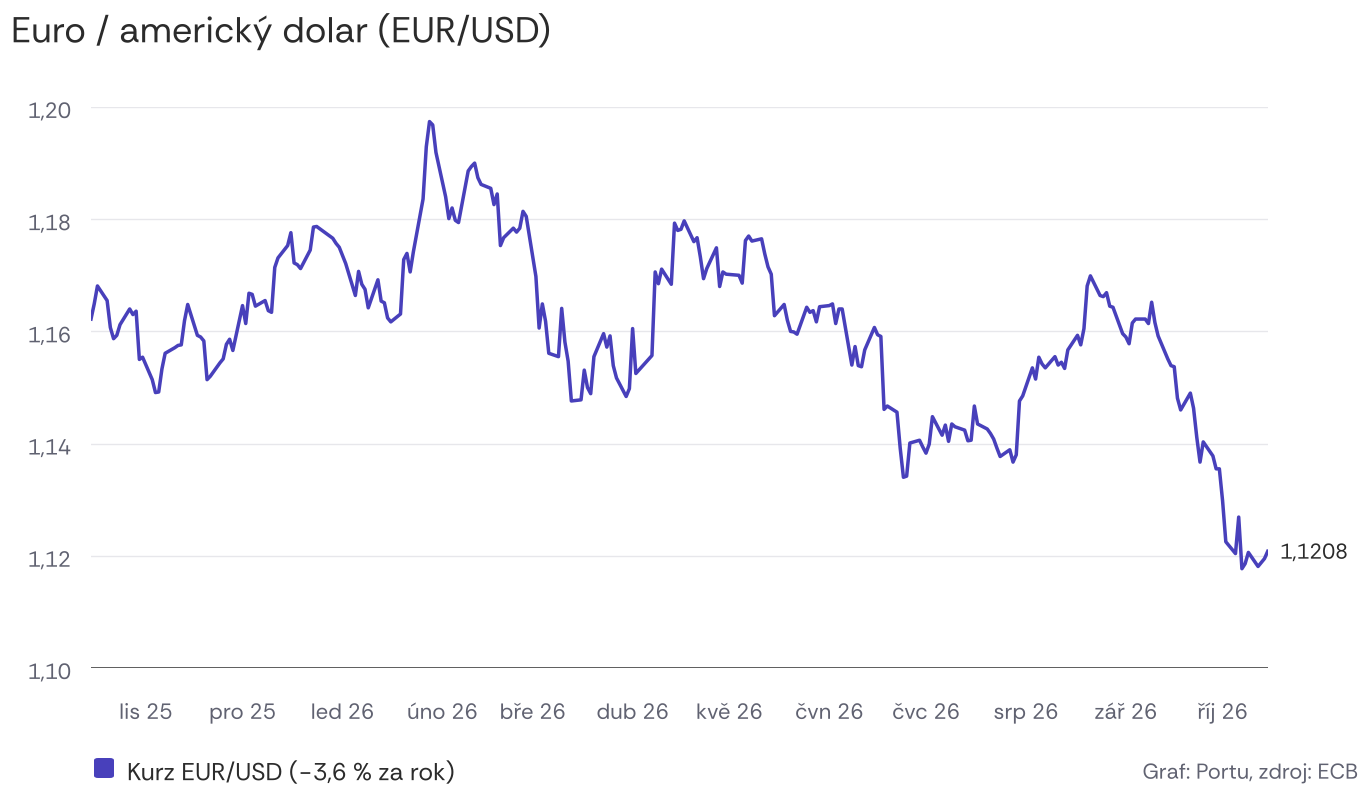
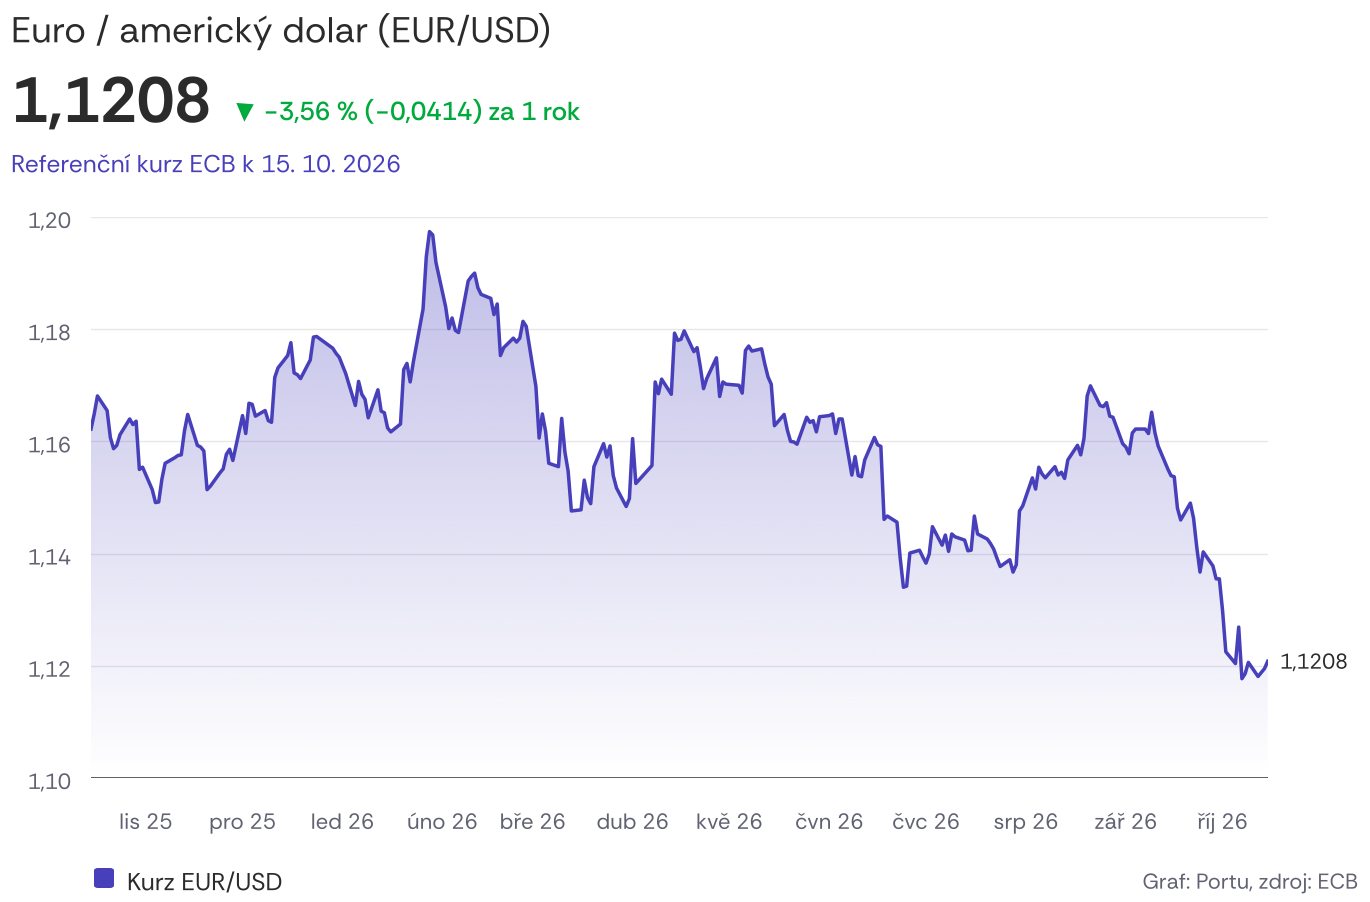
Graf EUR/USD: hlavička s kurzem a změnou za rok, barevný přechod pod křivkou
portu_grafy: volitelná hlavička s velkým číslem (hlavicka=…) a přechod
pod čarou (vypln=True); trojúhelník ▼/▲ kreslený jako tvar, protože
ho Rethink Sans nemá. Dřívější grafy beze změny.

Claude-Session: https://claude.ai/code/session_01A8r6cxYv4z3RaLJthvcQAS

diff --git a/nastroje/portu_grafy.py b/nastroje/portu_grafy.py
@@ -71,6 +71,8 @@ _ADRESAR = os.path.dirname(os.path.abspath(__file__))
 _PISMO = os.path.join(_ADRESAR, "fonty", "RethinkSans.ttf")
 font_manager.fontManager.addfont(_PISMO)
 _RODINA = font_manager.FontProperties(fname=_PISMO).get_name()
+_TUCNE = font_manager.FontProperties(fname=os.path.join(_ADRESAR, "fonty", "RethinkSans-Bold.ttf"))
+_STREDNI = font_manager.FontProperties(fname=os.path.join(_ADRESAR, "fonty", "RethinkSans-Medium.ttf"))
 plt.rcParams.update({
     "font.family": _RODINA,
     "axes.unicode_minus": True,
@@ -106,10 +108,11 @@ def _fy(px_shora: float) -> float:
     return 1 - px_shora / VYSKA_PX
 
 
-def _platno(dolni_px: float, horni_px: float = GRAF_HORNI, nadpis: str | None = None):
-    vyska = VYSKA_PX + (70 if nadpis else 0)
+def _platno(dolni_px: float, horni_px: float = GRAF_HORNI, nadpis: str | None = None, navic: int = 0):
+    """navic = další výška hlavičky pod nadpisem (např. pro velké číslo, viz _hlavicka_cislo)."""
+    posun = (70 if nadpis else 0) + navic
+    vyska = VYSKA_PX + posun
     fig = plt.figure(figsize=(SIRKA_PX / DPI, vyska / DPI), dpi=DPI, facecolor=POZADI)
-    posun = 70 if nadpis else 0
 
     def fy(px):
         return 1 - (px + posun) / vyska
@@ -123,9 +126,47 @@ def _platno(dolni_px: float, horni_px: float = GRAF_HORNI, nadpis: str | None = 
     ax.set_axisbelow(True)
     fig._portu = {"fy": fy, "vyska": vyska}
     if nadpis:
-        fig.text(_fx(GRAF_LEVA - 80), fy(-40), nadpis, fontsize=PISMO_NADPIS, color=TEXT_TMAVY,
+        fig.text(_fx(GRAF_LEVA - 80), 1 - 30 / vyska, nadpis, fontsize=PISMO_NADPIS, color=TEXT_TMAVY,
                  ha="left", va="center")
     return fig, ax
+
+
+HLAVICKA_PX = 110  # výška hlavičky s velkým číslem
+
+
+def _hlavicka_cislo(fig, hodnota, zmena, popis, barva_zmeny=None):
+    """Velké číslo s poslední hodnotou, vedle změna (např. „▼ −3,56 % (−0,0414) za 1 rok“), pod tím popis."""
+    vyska = fig._portu["vyska"]
+    x = _fx(GRAF_LEVA - 80)
+    t = fig.text(x, 1 - 122 / vyska, hodnota, fontsize=64 / PT, color=TEXT_TMAVY, fontproperties=_TUCNE,
+                 ha="left", va="baseline")
+    sirka = t.get_window_extent(renderer=fig.canvas.get_renderer()).width
+    barva = barva_zmeny or ZELENA
+    x_zmena = x + _fx(sirka + 24)
+    if zmena[:1] in ("▼", "▲"):  # Rethink Sans šipky nemá – trojúhelník jako tvar
+        fig.add_artist(Line2D([x_zmena + _fx(9)], [1 - 111 / vyska], transform=fig.transFigure, linestyle="none",
+                              marker="v" if zmena[0] == "▼" else "^", markersize=13 / PT, color=barva))
+        zmena, x_zmena = zmena[1:].lstrip(), x_zmena + _fx(28)
+    fig.text(x_zmena, 1 - 120 / vyska, zmena, fontsize=26 / PT, color=barva,
+             fontproperties=_STREDNI, ha="left", va="baseline")
+    fig.text(x, 1 - 160 / vyska, popis, fontsize=PISMO_LEGENDA, color=FIALOVA, ha="left", va="center_baseline")
+
+
+def _vypln(ax, xs, hodnoty, barva, dolni):
+    """Barevný přechod pod čarou: u čáry 35 % krytí, dole do bílé."""
+    import numpy as np
+    from matplotlib.colors import to_rgb
+    from matplotlib.patches import Polygon
+    xn = mdates.date2num(xs)
+    body = [(xn[0], dolni)] + list(zip(xn, hodnoty)) + [(xn[-1], dolni)]
+    tvar = Polygon(body, closed=True, facecolor="none", edgecolor="none")
+    ax.add_patch(tvar)
+    r, g, b = to_rgb(barva)
+    prechod = np.zeros((256, 1, 4))
+    prechod[:, 0, 0], prechod[:, 0, 1], prechod[:, 0, 2] = r, g, b
+    prechod[:, 0, 3] = np.linspace(0.35, 0.0, 256)
+    obr = ax.imshow(prechod, aspect="auto", extent=[xn[0], xn[-1], dolni, max(hodnoty)], origin="upper", zorder=1)
+    obr.set_clip_path(tvar)
 
 
 def _osa_y(ax, osa_y, jednotka, mista_osa):
@@ -267,7 +308,7 @@ def vodorovny(kategorie, hodnoty, osa_x, jednotka="%", mista=1, mista_osa=0, zdr
 def spojnicovy(x, rady: dict, osa_y, jednotka="", mista_osa=0, zdroj=ZDROJ, barvy=None,
                format_x="%m/%Y", interval_mesicu=6, interval_let=1, anotace=None, nadpis=None,
                rozsah_x=None, schody=(), popisky_konec=False, mista_konec=None, jednotka_konec=None,
-               jazyk="cs"):
+               jazyk="cs", hlavicka=None, vypln=False):
     """Časové řady (styl „Ropa WTI a Brent“, „Forward P/E“).
 
     x            – seznam datumů (datetime/date) společný všem řadám
@@ -277,6 +318,8 @@ def spojnicovy(x, rady: dict, osa_y, jednotka="", mista_osa=0, zdroj=ZDROJ, barv
     format_x     – '%m/%Y' (12/2024) pro víceleté řady po půlroce, '%Y' pro roky, '%-d. %-m.' pro dny,
                    'mesic' pro zkratky měsíců („lis 25“, slovensky „nov 25“) u řad za poslední rok (interval_mesicu=1)
     jazyk        – 'cs' nebo 'sk' (zkratky měsíců na ose x)
+    hlavicka     – (velké číslo, změna, popis[, barva změny]) pod nadpisem, např. kurz a změna za rok
+    vypln        – barevný přechod pod čarou první řady (jen na výslovné přání, Portu ho jinak nepoužívá)
     interval_let – u format_x='%Y' popisek každý n-tý rok (u řad přes 10 let 2)
     anotace      – [(datum, hodnota, 'text', 'pod'|'nad'), …] – bod na čáře + svislá linka + popisek
     schody       – názvy řad kreslených schodovitě (sazby centrálních bank platné do další změny)
@@ -286,13 +329,17 @@ def spojnicovy(x, rady: dict, osa_y, jednotka="", mista_osa=0, zdroj=ZDROJ, barv
     jednotka_konec – jednotka koncového popisku, když se liší od osy (např. 'b.' u indexu – mezeru před ní doplní cislo())
     """
     barvy = barvy or BARVY
-    fig, ax = _platno(GRAF_DOLNI_1RADEK, nadpis=nadpis)
+    fig, ax = _platno(GRAF_DOLNI_1RADEK, nadpis=nadpis, navic=HLAVICKA_PX if hlavicka else 0)
+    if hlavicka:
+        _hlavicka_cislo(fig, *hlavicka)
     _osa_y(ax, osa_y, jednotka, mista_osa)
     konce = []
     for i, (nazev, data) in enumerate(rady.items()):
         xs, hodnoty = data if isinstance(data, tuple) else (x, data)
         ax.plot(xs, hodnoty, color=barvy[i], linewidth=3.5 / PT, solid_joinstyle="round",
                 drawstyle="steps-post" if nazev in schody else "default", zorder=3 + len(rady) - i)
+        if vypln and i == 0:
+            _vypln(ax, xs, hodnoty, barvy[i], osa_y[0])
         if popisky_konec:
             konce.append([h for h in hodnoty if h is not None][-1])
     if konce:

diff --git a/vystupy/grafy/2026-10-16-eurusd.py b/vystupy/grafy/2026-10-16-eurusd.py
@@ -17,13 +17,19 @@ with open(ZAKLAD + ".csv", encoding="utf-8") as f:
     for r in csv.DictReader(f):
         datumy.append(dt.date.fromisoformat(r["datum"]))
         kurz.append(float(r["eurusd_ecb"]))
-zmena = (kurz[-1] / kurz[0] - 1) * 100
+zmena_pct = (kurz[-1] / kurz[0] - 1) * 100
+zmena = kurz[-1] - kurz[0]
+sipka = "▼" if zmena < 0 else "▲"
+den = datumy[-1]
 
 fig = pg.spojnicovy(
-    datumy, {f"Kurz EUR/USD ({pg.cislo(zmena, 1, '%')} za rok)": kurz},
+    datumy, {"Kurz EUR/USD": kurz},
     osa_y=(1.10, 1.20, 0.02), jednotka="", mista_osa=2,
     format_x="mesic", interval_mesicu=1, rozsah_x=(datumy[0], datumy[-1]),
-    popisky_konec=True, mista_konec=4,
+    popisky_konec=True, mista_konec=4, vypln=True,
+    hlavicka=(pg.cislo(kurz[-1], 4),
+              f"{sipka} {pg.cislo(zmena_pct, 2, '%')} ({pg.cislo(zmena, 4)}) za 1 rok",
+              f"Referenční kurz ECB k {den.day}. {den.month}. {den.year}"),
     zdroj="Graf: Portu, zdroj: ECB",
     nadpis="Euro / americký dolar (EUR/USD)",
 )

diff --git a/.claude/agents/Portu grafy.md b/.claude/agents/Portu grafy.md
@@ -54,6 +54,8 @@ Všechno níže je zabudované v modulu `nastroje/portu_grafy.py`. Graf vždy kr
 - Osa y s kulatými hodnotami a pravidelným krokem. Když řada klesá pod nulu, tmavá je čára nuly, ne spodní okraj.
 - **Poslední hodnota vpravo za koncem čáry** (`popisky_konec=True`), u více řad v barvě řady a s automatickým odsunutím blízkých hodnot („3,8 %" nad „3,4 %").
 - Sazby centrálních bank schodovitě podle data změny (`schody=('název řady',)`), ne šikmou čarou mezi měsíci.
+- **Hlavička s velkým číslem** (kurzy, ceny, indexy): pod nadpisem poslední hodnota velkým tučným písmem, vedle změna za období v zelené Portu (`▼ −3,56 % (−0,0414) za 1 rok`) a pod tím fialový popis („Referenční kurz ECB k 15. 10. 2026“) – `hlavicka=(hodnota, změna, popis)`. Vzor: `vystupy/grafy/2026-10-16-eurusd.png`.
+- **Barevný přechod pod čarou** (`vypln=True`) jen na výslovné přání; jinak Portu přechody nepoužívá.
 - **Anotace událostí:** bod na čáře, krátká svislá šedá linka a popisek pod bodem nebo nad ním. Nejvýš 2–3 anotace. Popisek nesmí překrýt čáru.
 
 **Sloupcový graf** (`pg.sloupcovy`)
